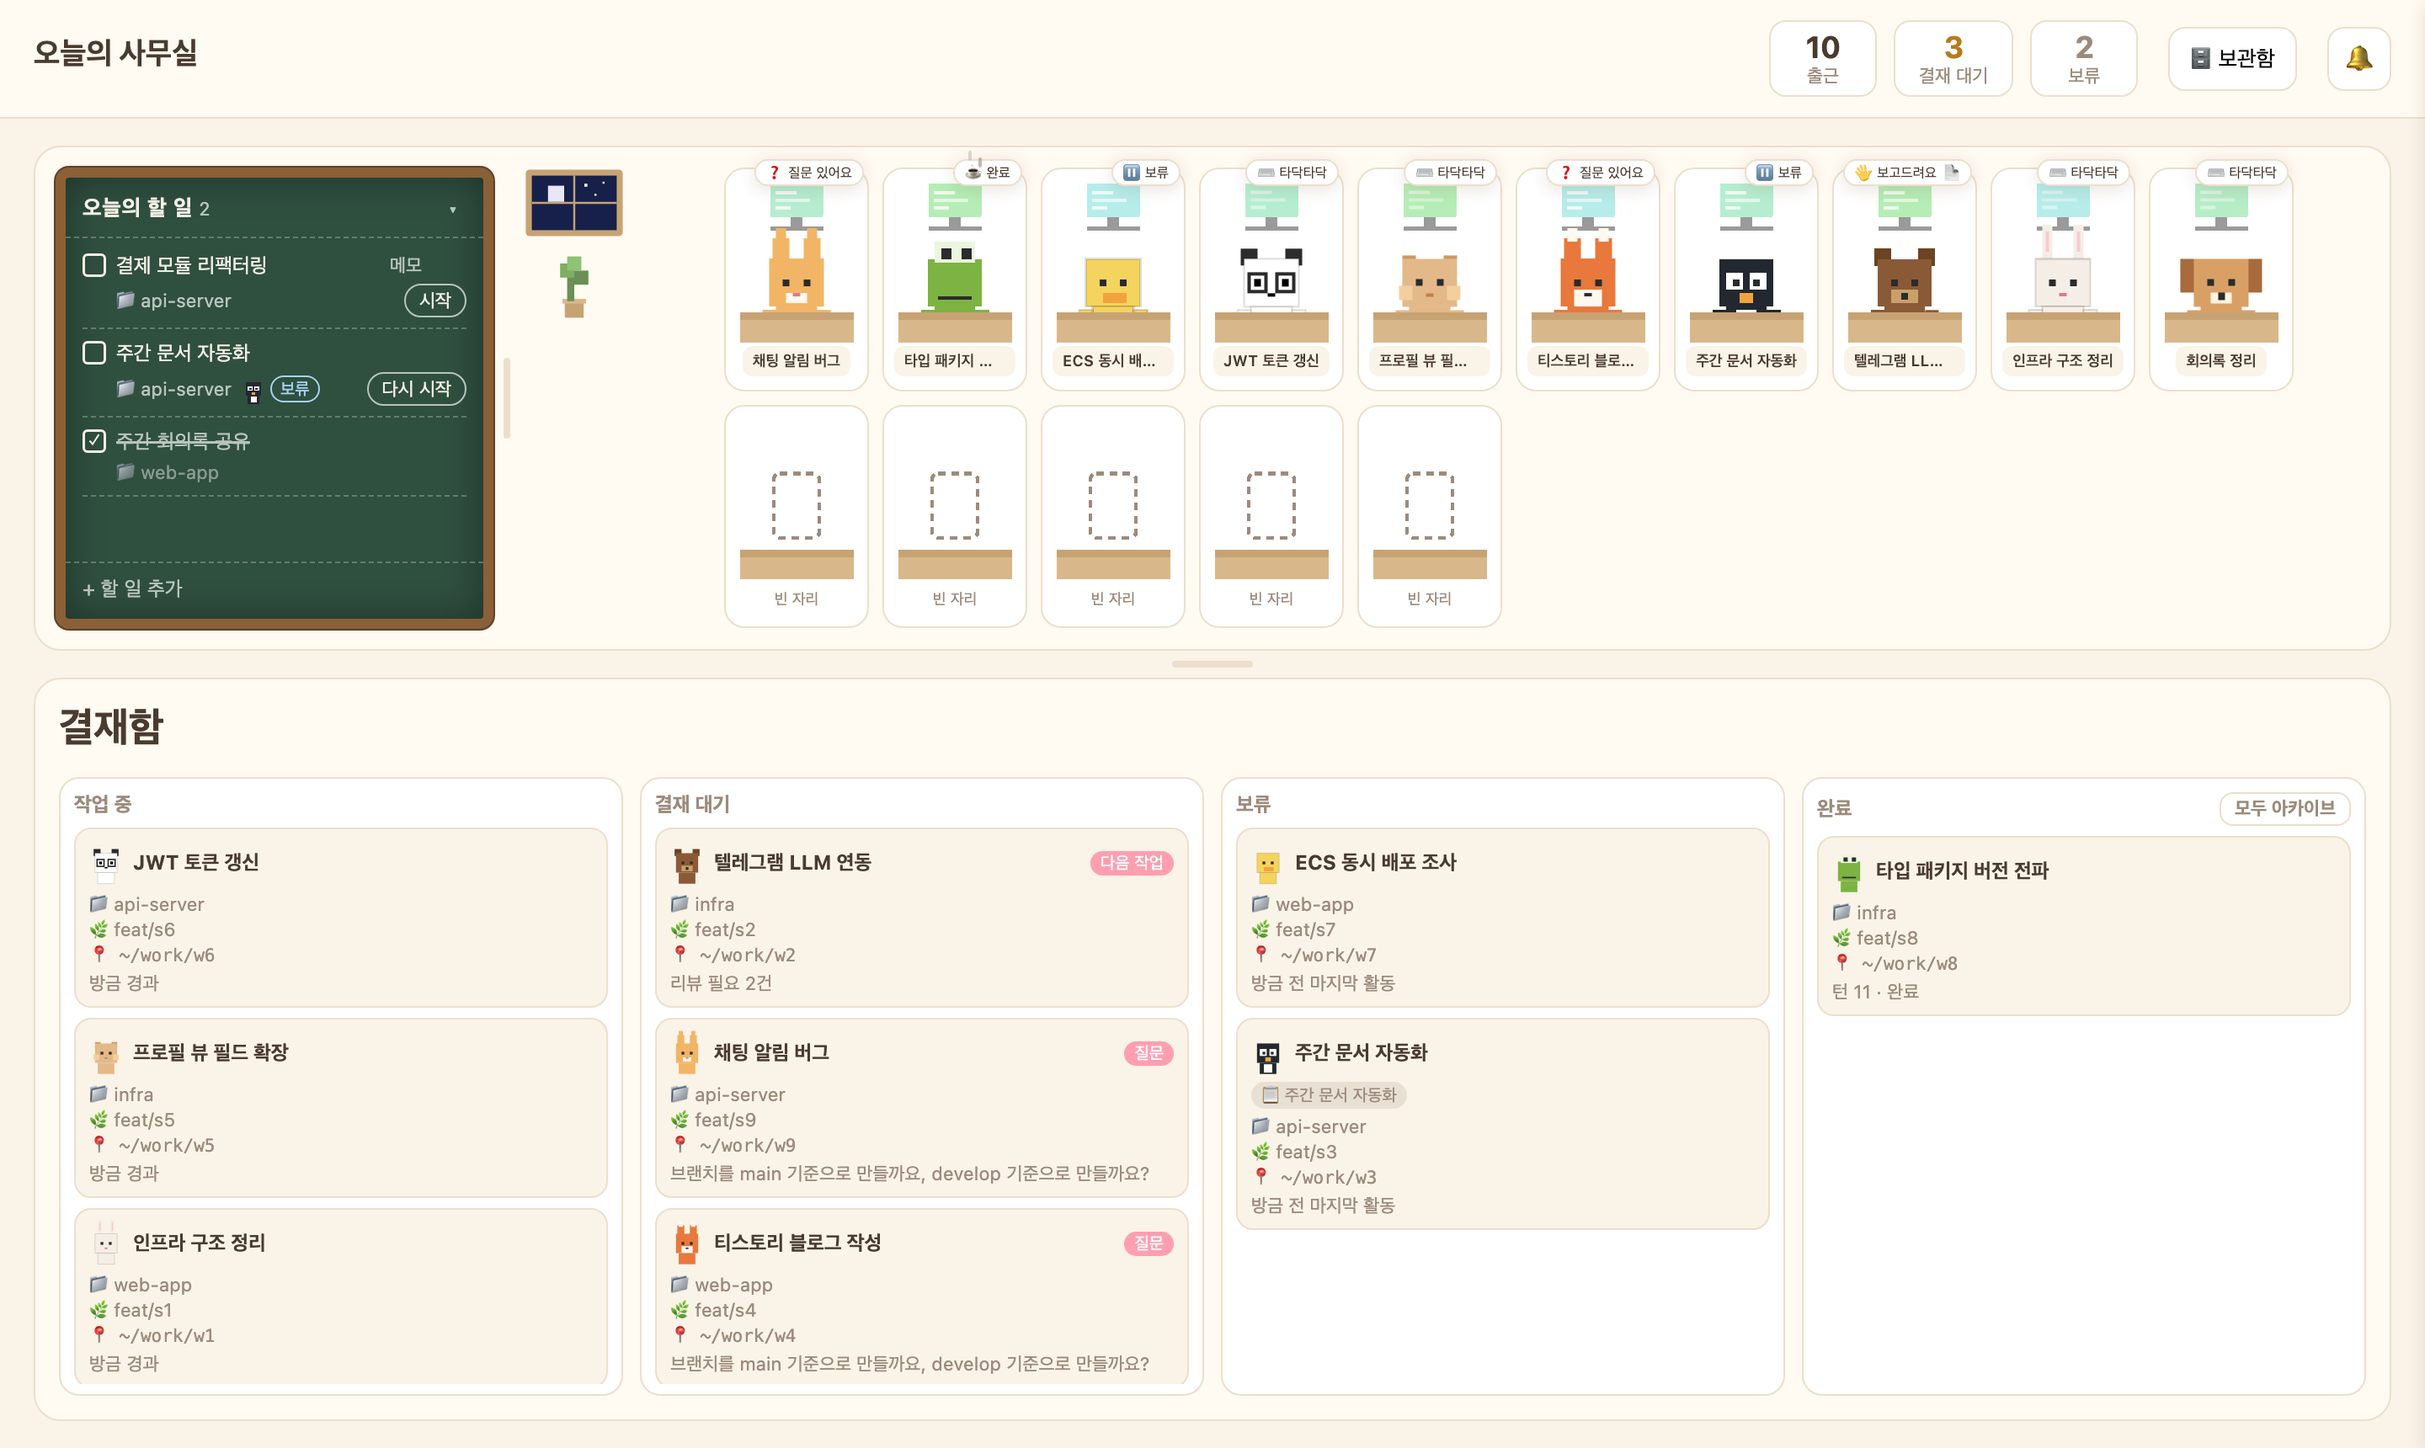
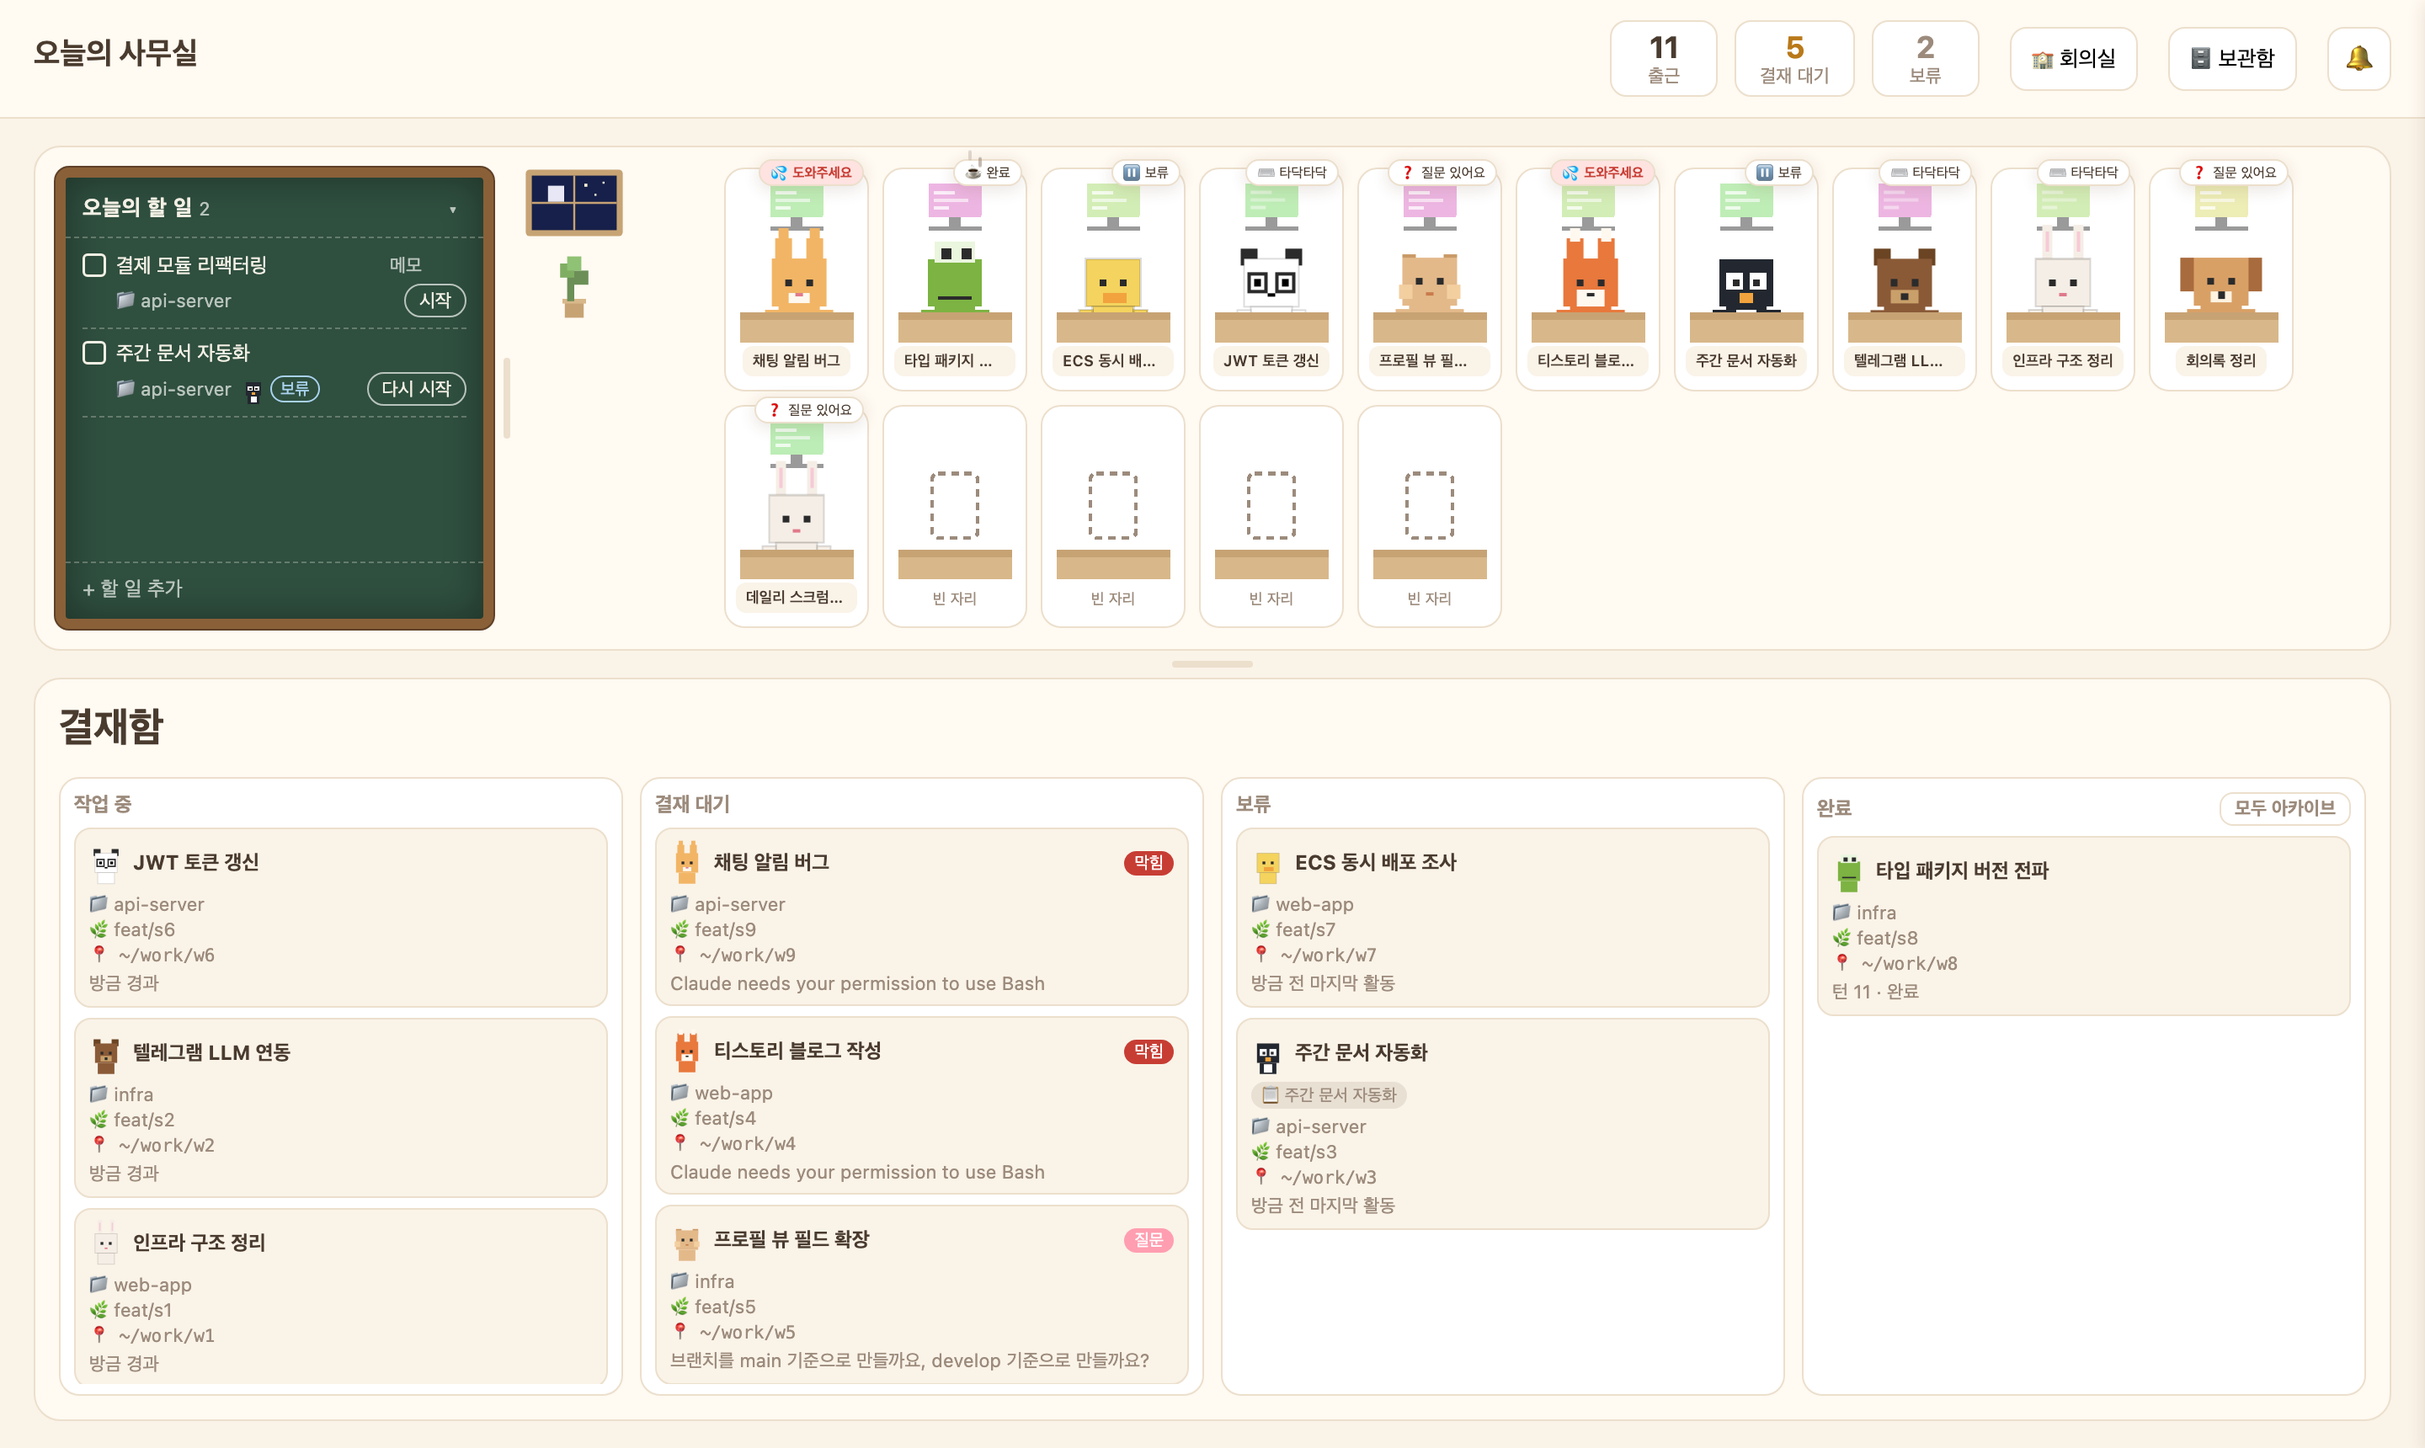
docs: meeting room in README (ko/en), screenshot, design status

diff --git a/README.md b/README.md
@@ -11,6 +11,8 @@
 |---|---|
 | ![보고서 탭: 결재 보고와 다음 작업](docs/images/panel-report.png) | ![변경사항 탭: 워크트리 diff](docs/images/panel-diff.png) |
 
+![회의실: 오늘의 할 일 칠판과 진행자](docs/images/meeting-room.png)
+
 - 의존성 0개 (Node 22 표준 라이브러리 + `git`)
 - `127.0.0.1:7777` 전용
 - macOS 전용 (앱 로컬 파일, `open`, `pbcopy` 사용). 호환성·검증 상태: [`docs/research/2026-09-28-compat-and-verification.md`](docs/research/2026-09-28-compat-and-verification.md)
@@ -59,11 +61,12 @@ flowchart TB
 server.mjs              진입점 (src/http/server.mjs 실행)
 install.mjs             hooks 설치·제거
 hooks/report.mjs        hook (실행 속도 때문에 의존성 없이 단독)
+bin/office.mjs          칠판 CLI (회의 진행자와 사람이 같이 씀, 서버 불필요)
 src/
   config.mjs            환경변수·경로·한도 (환경변수는 여기서만 읽음)
   http/                 controller: 입력 정리 → use-case 호출 → 응답, Host/Origin 검사
-  usecases/             흐름: 세션 목록, 변경사항, 컨펌·보류·아카이브, 다음 작업, 요약, 할 일·세션 연결
-  domain/               순수 함수: 상태 판정, 보고서 파싱, 프롬프트, diff 파싱, 할 일 규칙
+  usecases/             흐름: 세션 목록, 변경사항, 컨펌·보류·아카이브, 다음 작업, 요약, 할 일·세션 연결, 회의
+  domain/               순수 함수: 상태 판정, 보고서 파싱, 프롬프트, diff 파싱, 할 일 규칙, 일지·진행자 지침
   sources/              데이터 읽기·쓰기: 앱 세션 파일, hook 상태, 대화 기록, 결정, git
   platform/             OS 부수효과: open, pbcopy, claude -p
 public/
@@ -71,7 +74,7 @@ public/
   css/                  base · office · board · panel · changes · markdown
   js/                   main → api · store → views/ · panel/
   js/lib/               import 없는 모듈: 계산(grid-math, markdown)과 작은 DOM 도구(splitter, inline-edit)
-  js/views/             사무실·결재함·헤더·칠판(blackboard.js). columns.js(칸)·filters.js(필터)는 규칙 표
+  js/views/             사무실·결재함·헤더·칠판(blackboard.js)·회의실(meeting.js). columns.js(칸)·filters.js(필터)는 규칙 표
   js/panel/             상세 패널. actions.js(버튼)는 규칙 표
 test/unit/              순수 함수 테스트
 test/integration/       서버·fixture·임시 git 레포 테스트
@@ -81,7 +84,7 @@ test/integration/       서버·fixture·임시 git 레포 테스트
 - 규칙은 표로 둔다. 새 칸·드래그 규칙·필터·버튼·편집 필드는 표에 한 줄을 더하면 된다(고칠 곳: [설계 §4](docs/specs/2026-09-28-board-interactions-design.md#4-확장-지점-나중에-기능을-붙이는-곳)).
 - 세션이 어느 칸에 있고 어디로 옮길 수 있는지는 서버(`src/domain/board.mjs`)가 계산해 `column`, `moves`로 내려준다. 화면은 그대로 보여주기만 한다.
 - 파일 쓰기와 OS 명령은 `sources/`와 `platform/`에만 있다.
-- 설계 문서: [레이어·상세 패널](docs/specs/2026-09-28-layering-and-panel-design.md), [결재함 상호작용](docs/specs/2026-09-28-board-interactions-design.md), [오늘의 할 일 칠판](docs/specs/2026-09-28-todo-blackboard-design.md)
+- 설계 문서: [레이어·상세 패널](docs/specs/2026-09-28-layering-and-panel-design.md), [결재함 상호작용](docs/specs/2026-09-28-board-interactions-design.md), [오늘의 할 일 칠판](docs/specs/2026-09-28-todo-blackboard-design.md), [회의실](docs/specs/2026-09-29-meeting-room-design.md)
 
 ## 먼저 데모로 보기 (실제 설정 안 건드림)
 
@@ -142,6 +145,24 @@ hooks는 설치 **이후** 시작된 턴부터 잡힌다. 설치 전 세션은 2
 5. 삭제는 5초 안에 **되돌리기**할 수 있고, 칠판은 접거나(▾) 책상과의 경계를 끌어 폭을 바꿀 수 있다.
 6. 저장은 `~/.claude/office/todos.json` 하나다. 세션 연결과 상태는 저장하지 않고 매번 계산한다.
 
+## 회의실 (daily scrum)
+
+헤더의 **🏫 회의실**을 누르면 화면이 회의실로 바뀐다. 왼쪽은 오늘의 할 일 칠판, 오른쪽은 진행자 자리다. 어제 한 일을 정리하고 오늘 할 일을 브레인스토밍하는 곳이다.
+
+1. **회의 시작**: 서버가 오늘 일지 `~/.claude/office/daily/YYYY-MM-DD.md`를 만들고(어제 0시 이후 세션들의 상태·한 줄 요약·다음 작업 추천, 지금 칠판, 최근 프로젝트 폴더), 진행자 세션 입력창을 연다(Enter만 누르면 됨).
+2. **진행자**는 진짜 Claude Code 세션이다. `~/.claude/office`에서 열리고, 그 폴더의 `CLAUDE.md`(서버가 관리) 지침을 따른다. 읽는 것은 오늘 일지와 사용자의 말뿐이고 레포·볼트 조사, 코드 수정, git은 금지다. 첫 메시지로 "어제 끝낸 일 / 못 끝낸 일 / 오늘 추천"을 내놓고, 대화는 앱 채팅창에서 한다.
+3. 정해진 항목은 진행자가 **칠판 CLI**로 적는다. 사람이 써도 된다.
+   ```bash
+   node bin/office.mjs todo list
+   node bin/office.mjs todo add "제목" --folder /abs/path [--detail "…"] [--source scrum]
+   node bin/office.mjs todo update <id> [--title …] [--detail …] [--folder …] [--done true|false]
+   node bin/office.mjs todo delete <id>
+   node bin/office.mjs folders
+   ```
+   회의에서 적은 항목은 칠판에 🏫 표시가 붙는다. 회의실 화면은 진행자의 최근 메시지와 칠판을 2초마다 새로 보여준다.
+4. **회의 끝**: 진행자 세션을 아카이브하고 일지에 `## 회의 n` 섹션(확정된 할 일, 진행자 마지막 메시지)을 덧붙인다. 하루에 여러 번 열 수 있다. 일지의 자동 구간(`<!-- office:auto:start -->` … `end -->`)만 회의 시작마다 다시 채워지고 나머지는 보존된다.
+5. 진행자가 CLI를 실행할 때 앱이 Bash 권한을 물을 수 있다. 매번 허용하기 번거로우면 `~/.claude/office/.claude/settings.json`에 그 명령만 허용 규칙을 두면 된다(이 앱은 만들지 않는다).
+
 ## 상세 패널
 
 - **보고서 탭**: 결재 보고를 마크다운으로 보여준다. "다음 작업"은 항목마다 **▶ 진행** 버튼이 있다.
@@ -168,7 +189,7 @@ hooks는 설치 **이후** 시작된 턴부터 잡힌다. 설치 전 세션은 2
 node install.mjs --uninstall
 ```
 
-그리고 `~/.claude/CLAUDE.md`의 결재 보고 블록 삭제, `rm -rf ~/.claude/office`(결정·이름·할 일 파일 포함). 앱 데이터와 세션은 읽기만 하므로 영향 없음.
+그리고 `~/.claude/CLAUDE.md`의 결재 보고 블록 삭제, `rm -rf ~/.claude/office`(결정·이름·할 일·일지·진행자 지침 포함). 앱 데이터와 세션은 읽기만 하므로 영향 없음.
 
 ## 검증
 
@@ -182,6 +203,8 @@ node scripts/metrics.mjs
 - 세션 제목·딥링크는 앱 내부 파일(`~/Library/Application Support/Claude/claude-code-sessions`)에서 읽는다. 공개 API가 아니라 앱 업데이트로 바뀌면 제목이 폴더명으로, 딥링크가 사라진다(상태 추적은 hooks라 유지).
 - hooks 경로는 이 폴더의 절대경로로 등록된다. 폴더를 옮기거나 워크트리를 지우면 `node install.mjs`를 다시 실행해야 한다(파일이 없으면 hook이 exit 1로 끝나 세션은 계속 동작하지만 hook 오류 표시가 뜰 수 있다).
 - 앱의 기존 세션 입력창을 채우는 딥링크를 앱 코드에서 찾지 못해서, 컨펌은 클립보드 복사 + 채팅방 열기(⌘V, Enter)로 전달한다. 새 세션은 `claude://code/new?q=…` 딥링크로 입력창을 채운다(Enter만 누르면 됨).
+- 회의 진행자와의 대화는 앱 채팅창에서 한다. 회의실 화면은 진행자의 마지막 메시지만 보여준다.
+- 회의·일지는 서버의 로컬 날짜 기준이다. 자정을 걸쳐 회의하면 진행자를 "오늘" 것으로 찾지 못한다.
 - 할 일↔세션 연결은 새 세션 첫 프롬프트의 `#todo-…` 표식으로 잡는다. 표식 줄을 지우고 보내면 연결되지 않는다(칠판에서 다시 시작하면 됨).
 - 카드 끌어 옮기기는 마우스 전용이다. 키보드로는 상세 패널의 보류·보류 해제·컨펌 버튼으로 같은 일을 한다.
 - 화면과 보고 규칙은 한국어다. 대시보드는 `## 결재 보고` 제목과 소제목을 그대로 파싱한다.

diff --git a/docs/specs/2026-09-29-meeting-room-design.md b/docs/specs/2026-09-29-meeting-room-design.md
@@ -1,7 +1,7 @@
 # 설계: 회의실 (daily scrum, 2/4)
 
 - 작성일: 2026-09-29
-- 상태: 설계 승인 (구현 중)
+- 상태: 구현 완료 (2026-09-29, 백엔드 `2ef66d0` + 프론트·문서 후속 커밋)
 - 전체 그림: `2026-09-28-todo-blackboard-design.md` 머리의 4조각 표. 이 문서는 2조각이다. 3조각(업무일지 자동 생성)은 §4의 일지 파일 위에 얹는다.
 - 사용자 결정: 진행자는 **진짜 Claude Code 세션**(C안), 읽는 것은 **오늘 일지 + 사용자 대화뿐**(레포·볼트 조사 금지), 종료는 **회의 끝 버튼**.
 
@@ -162,4 +162,27 @@ type: office-daily
 3. "어제" = 전날 0시 이후 활동 세션
 4. 회의 끝 = 진행자 아카이브 + 일지 기록. 하루 여러 번(`회의 n`)
 5. 회의실 = 같은 DOM의 배치 전환, 칠판 재사용
-6. 첫 실제 실행에서 확인: git 레포가 아닌 폴더로 `claude://code/new` 딥링크가 열리는지(안 열리면 폴더를 `~/claude-office`로 대체)
+6. git 레포가 아닌 폴더로 `claude://code/new` 딥링크가 열리는지: 앱이 Finder 서비스 "New Claude Code Session Here"에서 임의 폴더를 같은 딥링크로 넘기도록 등록해 두어 열린다(앱 번들 문자열로 확인). 실제 첫 회의에서 한 번 더 확인
+
+## 11. 구현하며 달라진 점
+
+1. 서버
+   1. `replaceAuto(text, auto, date)`: 일지가 없을 때 뼈대를 만들려면 날짜가 필요해 인자를 추가.
+   2. 일지의 `## 어제 세션`에서 진행자 세션 제외, `folders()`에서 `OFFICE_DIR` 제외(진행자 폴더가 프로젝트처럼 보이지 않게).
+   3. `facilitators` 항목에 `startedAt`(앱 파일 `createdAt`) 추가해 `## 회의 n` 시작 시각에 사용.
+   4. 회의 시작 직후 `count`는 0이고, 사용자가 Enter를 눌러 진행자 세션이 실제로 생겨야 1이 된다(표식에서 계산).
+   5. 일지 없이 회의 끝을 누르면 뼈대와 자동 구간을 먼저 만들고 섹션을 붙인다. 빈 섹션은 `1. 없음`.
+   6. `lean()`을 `todo-links.mjs`에서 복사(그 파일은 담당 밖). 세 번째 사용처가 생기면 export로 합치기.
+   7. 데모 진행자 seed는 `--once`가 아닐 때만(기존 `office.test.mjs`의 세션 수 단언 유지).
+   8. 통합 테스트 포트 7791.
+2. 화면
+   1. 도장은 `stampFx` 대신 `meeting.js`의 `stamp()`: 기존 도장 레이어가 패널 안에 있어 패널이 닫혀 있으면 화면 밖에 그려진다.
+   2. 해시는 `history.replaceState`(방문 기록을 쌓지 않음), `hashchange`에도 반응.
+   3. 세션은 있는데 답이 없으면 "진행자가 아직 답하지 않았어요. 대화는 앱 채팅창에서 해요." 안내.
+   4. 요청이 진행 중이면 버튼 전체를 막는다(시작·끝 동시 전송 방지). 회의실에서는 칠판 접기 버튼을 숨긴다.
+   5. Escape: 패널 → 회의실 순서로 닫고, dialog가 열려 있으면 회의실을 닫지 않는다.
+   6. 제목 옆 sub 줄에 `날짜 · 오늘 회의 n번 · 칠판에 🏫 n개`.
+3. 검증(데모): 회의실 전환·해시 복원 → 진행자 메시지 렌더(번호 목록) → 회의 끝(도장·토스트·사무실 복귀·진행자 아카이브) → 일지에 자동 구간 + `## 회의 1`(확정 목록·`> ` 메시지) 확인 → CLI `todo add --source scrum` → 칠판 🏫 표시 → 375px. 테스트 100개 → 121개, 메트릭 4개 통과.
+4. 남은 것
+   1. 실제 회의 한 바퀴(회의 시작 → 앱에서 Enter → 진행자와 대화 → CLI 기록 → 회의 끝)는 사용자 테스트 몫. 진행자의 Bash 권한 확인이 매번 뜨면 `~/.claude/office/.claude/settings.json` 허용 규칙 검토.
+   2. 자정을 걸친 회의는 "오늘" 진행자로 잡히지 않는다.
